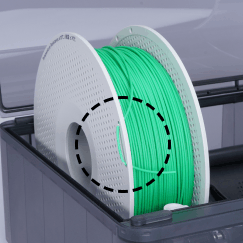
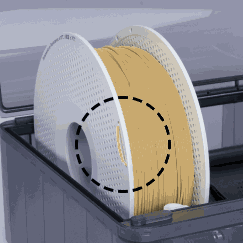
Branding: remaining green bits and -cds version label
- recolour teal/green raster graphics (home New/Open project, project info
  placeholder, extruder load indicator, setup wizard images, AMS drying
  picture, web logos) to the CDS gold
- account online dot, thermal preconditioning OK button and plugin update
  badge/button in gold (text on gold #111111)
- splash screen / About show '2.5.0-cds' instead of '-dev' (display only,
  SoftFever_VERSION unchanged)

Claude-Session: https://claude.ai/code/session_016uAyAiW3hBesQmnwGPcuRj

Changed region(s): [[0.3745, 0.1152, 0.8642, 0.9218]]

diff --git a/resources/web/dialog/PluginsDialog/styles.css b/resources/web/dialog/PluginsDialog/styles.css
@@ -476,8 +476,8 @@ body.pane-resizing {
   width: 18px;
   height: 18px;
   border-radius: 6px;
-  background: linear-gradient(180deg, #45ba53 0%, #2fa744 100%);
-  box-shadow: inset 0 1px 0 rgba(255, 255, 255, 0.25), 0 0 0 1px rgba(19, 88, 33, 0.32);
+  background: linear-gradient(180deg, #D4B985 0%, #C8A96E 100%);
+  box-shadow: inset 0 1px 0 rgba(255, 255, 255, 0.25), 0 0 0 1px rgba(120, 95, 45, 0.32);
 }
 
 .version-update-badge[hidden] {
@@ -568,9 +568,9 @@ body.pane-resizing {
   padding: 2px 12px;
   border: none;
   border-radius: 6px;
-  background: linear-gradient(180deg, #45ba53 0%, #2fa744 100%);
-  box-shadow: inset 0 1px 0 rgba(255, 255, 255, 0.25), 0 0 0 1px rgba(19, 88, 33, 0.32);
-  color: #ffffff;
+  background: linear-gradient(180deg, #D4B985 0%, #C8A96E 100%);
+  box-shadow: inset 0 1px 0 rgba(255, 255, 255, 0.25), 0 0 0 1px rgba(120, 95, 45, 0.32);
+  color: #111111;
   font-size: 12px;
   font-weight: 600;
   line-height: 1.6;

diff --git a/resources/web/homepage/css/home.css b/resources/web/homepage/css/home.css
@@ -99,7 +99,7 @@ body
 	--account-danger-bg: rgba(211, 59, 59, 0.10);
 	--account-warn-bg: rgba(240, 126, 74, 0.12);  /*----var(--warn-color) at 12%----*/
 	--account-dot-off: #C4CBCA;
-	--account-dot-on: #34A853;
+	--account-dot-on: #C8A96E;
 	--account-menu-shadow: 0 10px 28px rgba(20, 30, 28, 0.18);
 
 	--glyph-account:

diff --git a/resources/web/homepage/css/dark.css b/resources/web/homepage/css/dark.css
@@ -146,6 +146,6 @@ body
 	--account-danger-bg: rgba(225, 71, 71, 0.16);
 	--account-warn-bg: rgba(240, 126, 74, 0.16);  /*----var(--warn-color) at 16%----*/
 	--account-dot-off: #5A5A62;
-	--account-dot-on: #4CAF50;
+	--account-dot-on: #C8A96E;
 	--account-menu-shadow: 0 10px 28px rgba(0, 0, 0, 0.45);
 }

diff --git a/src/slic3r/GUI/AboutDialog.cpp b/src/slic3r/GUI/AboutDialog.cpp
@@ -262,7 +262,7 @@ AboutDialog::AboutDialog()
         // _build_string_font.SetStyle(wxFONTSTYLE_ITALIC);
 
         vesizer->Add(0, 0, 1, wxEXPAND, FromDIP(5));
-        auto          version_string = std::string(SoftFever_VERSION); // _L("Orca Slicer ") + " " + std::string(SoftFever_VERSION);
+        auto          version_string = GUI_App::format_display_version(); // _L("Orca Slicer ") + " " + std::string(SoftFever_VERSION);
         wxStaticText* version = new wxStaticText(this, wxID_ANY, version_string.c_str(), wxDefaultPosition, wxDefaultSize);
         // TRN %s is the commit the application was built from
         wxStaticText* credits_string = new wxStaticText(this, wxID_ANY, wxString::Format(_L("Build %s"), build_commit_label), wxDefaultPosition, wxDefaultSize);

diff --git a/src/slic3r/GUI/ThermalPreconditioningDialog.cpp b/src/slic3r/GUI/ThermalPreconditioningDialog.cpp
@@ -77,8 +77,8 @@ void ThermalPreconditioningDialog::create_ui()
     m_ok_button->SetBackgroundColour(wxSystemSettings::GetColour(wxSYS_COLOUR_BTNFACE));
     m_ok_button->SetForegroundColour(wxSystemSettings::GetColour(wxSYS_COLOUR_BTNTEXT));
 #else
-    m_ok_button->SetBackgroundColour(StateColor::darkModeColorFor(wxColour("#B6F34F")));
-    m_ok_button->SetForegroundColour(StateColor::darkModeColorFor(wxColour("#000000")));
+    m_ok_button->SetBackgroundColour(StateColor::darkModeColorFor(wxColour("#C8A96E")));
+    m_ok_button->SetForegroundColour(wxColour("#111111"));
     m_ok_button->SetMinSize(wxSize(FromDIP(80), FromDIP(32)));
     m_ok_button->SetMaxSize(wxSize(FromDIP(80), FromDIP(32)));
 #endif

diff --git a/src/slic3r/GUI/GUI_App.cpp b/src/slic3r/GUI/GUI_App.cpp
@@ -7202,6 +7202,12 @@ std::string GUI_App::format_display_version()
     if (!version_display.empty()) return version_display;
 
     version_display = SoftFever_VERSION;
+    // CDS: show our build flavour instead of the upstream "-dev" suffix (display only;
+    // SoftFever_VERSION itself stays unchanged for config/profile compatibility).
+    const std::string dev_suffix = "-dev";
+    if (version_display.size() > dev_suffix.size() &&
+        version_display.compare(version_display.size() - dev_suffix.size(), dev_suffix.size(), dev_suffix) == 0)
+        version_display.replace(version_display.size() - dev_suffix.size(), dev_suffix.size(), "-cds");
     return version_display;
 }
 
